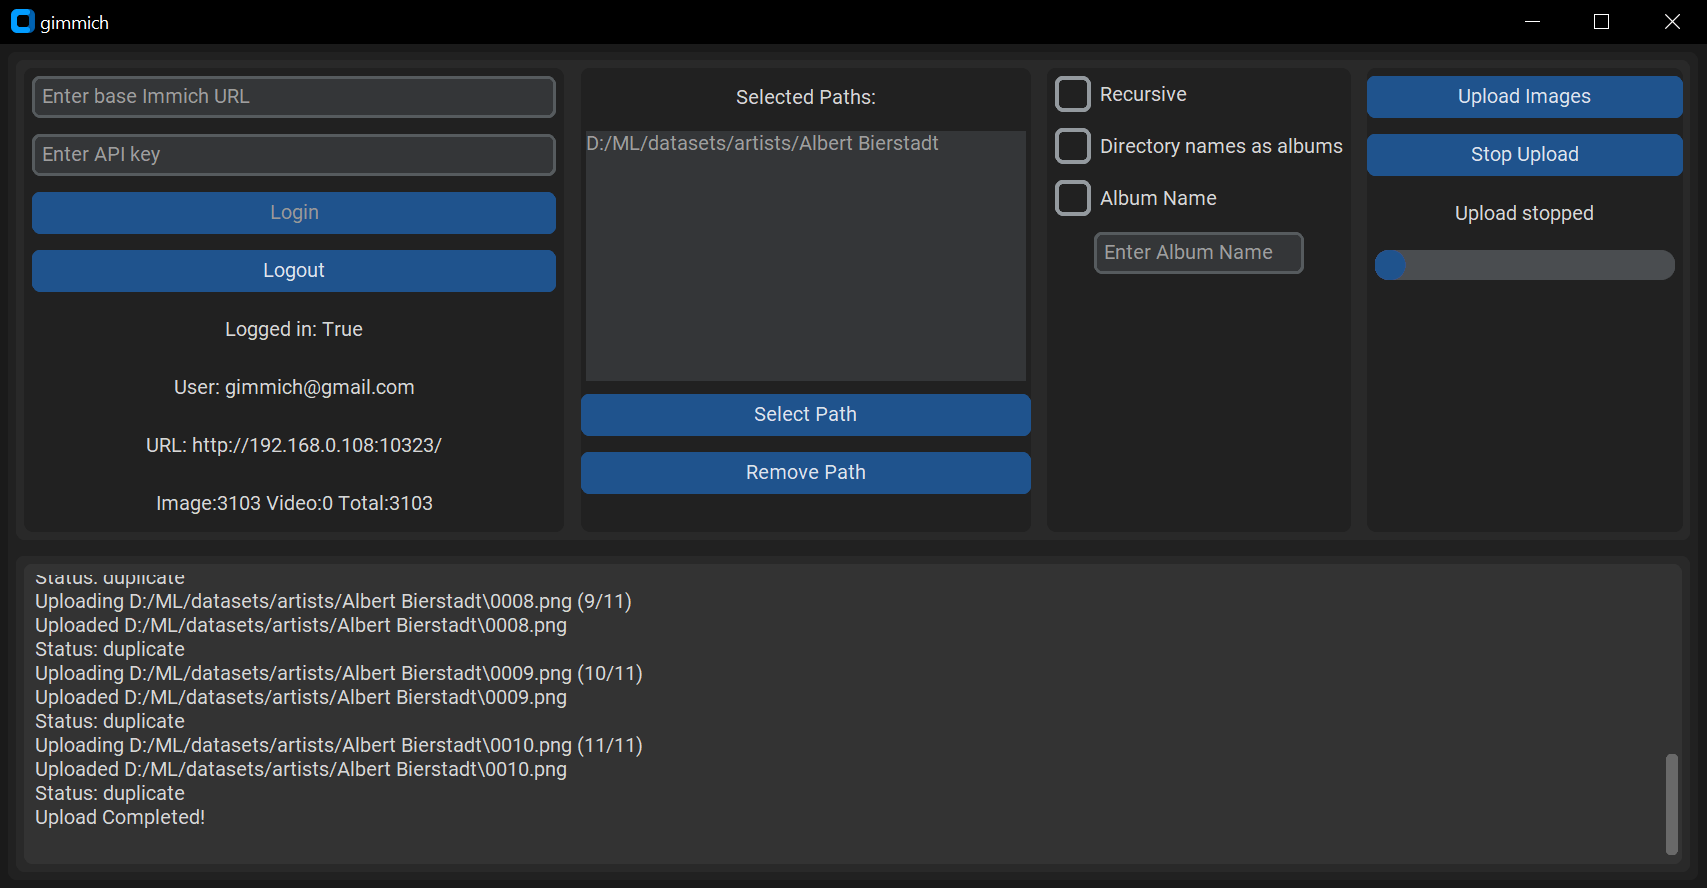
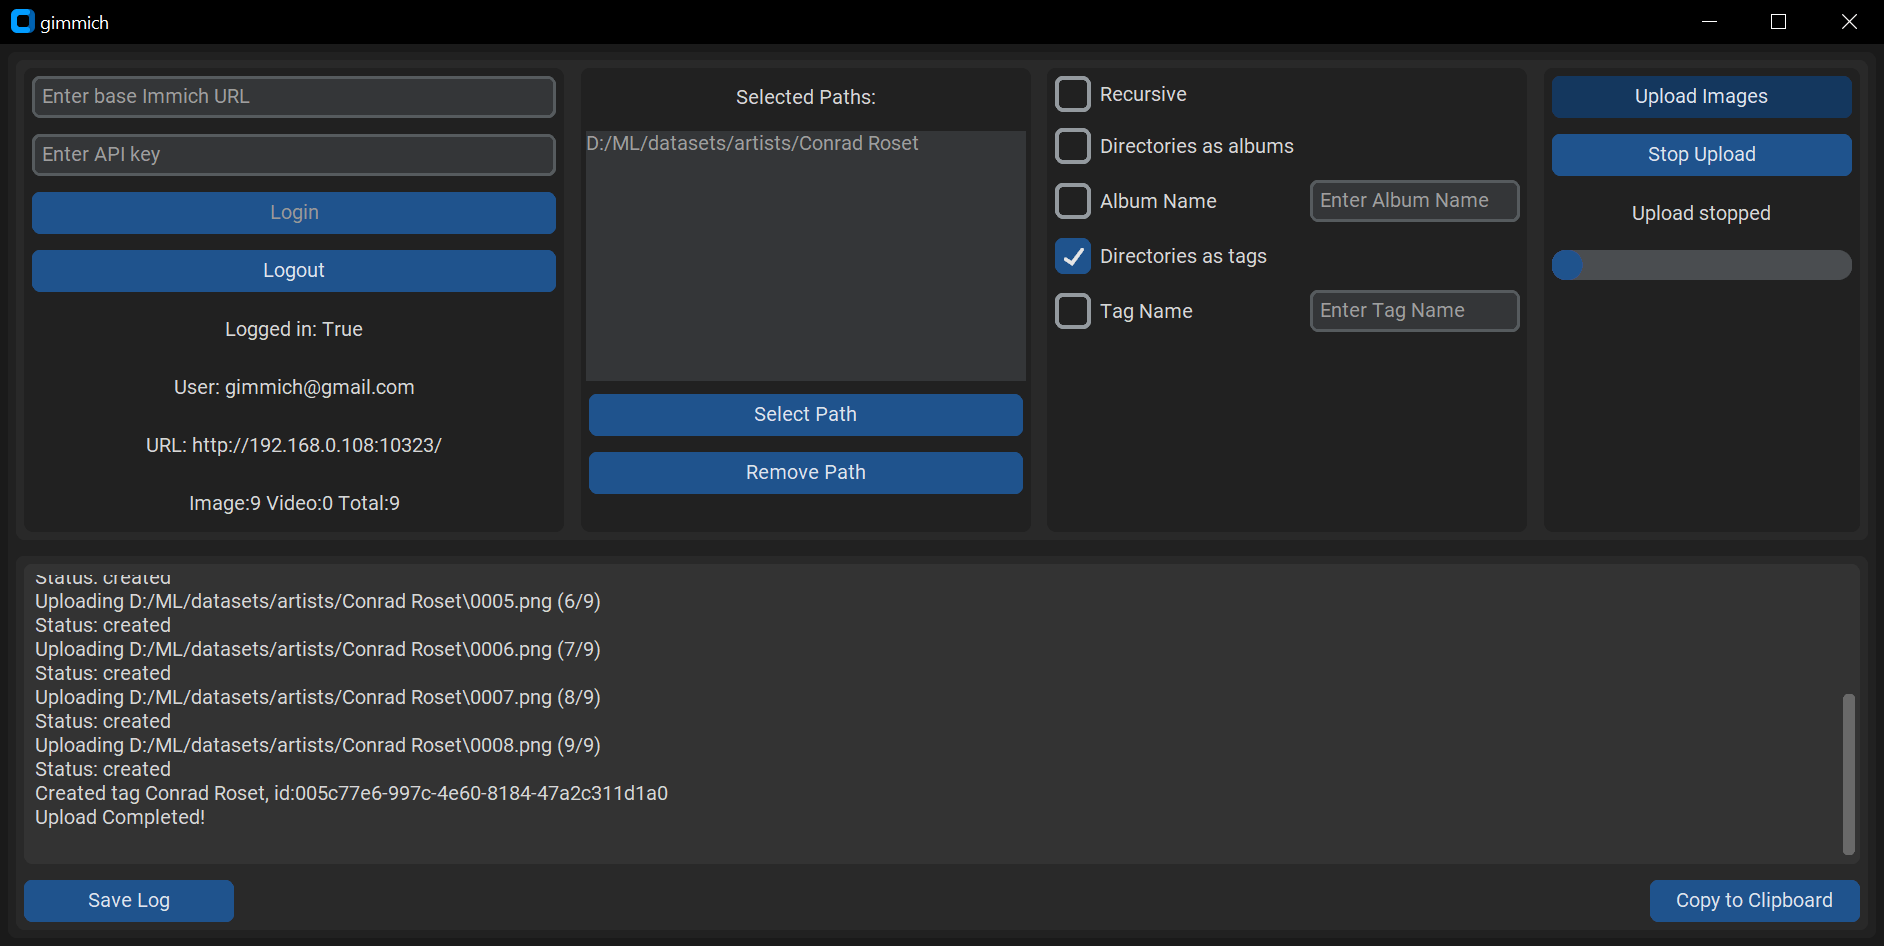
Added bulk tagging options

diff --git a/modules/upload_frame.py b/modules/upload_frame.py
@@ -68,6 +68,7 @@ class UploadFrame(ctk.CTkFrame):
 
             if collected_ids:
                 self.process_albums(collected_ids)
+                self.process_tags(collected_ids)
 
         except Exception as e:
             print(f"Unexpected error Uploading: {e}")
@@ -118,6 +119,36 @@ class UploadFrame(ctk.CTkFrame):
                     album_id = existing_albums[directory_name]
                     self.client.add_assets_to_album(album_id, all_asset_ids)
                     print(f"Album {directory_name} already exists, added assets to existing album: {album_id}")
+
+    def process_tags(self, ids):
+        """Create tags based on user options"""
+        checkbox_states = self.checkbox_frame.get_states()
+        existing_tags = self.client.get_all_tags()
+        all_asset_ids = [value for _, value in ids]
+        if checkbox_states['tag_input_enabled']:
+            if checkbox_states['tag_input'] not in existing_tags:
+                tag_id = self.client.create_tag(checkbox_states['tag_input'])
+                self.client.tag_assets(tag_id, all_asset_ids)
+                print(f"Created tag {checkbox_states['tag_input']}, id:{tag_id}")
+            else:
+                tag_id = existing_tags[checkbox_states['tag_input']]
+                self.client.tag_assets(tag_id, all_asset_ids)
+                print(f"Tag {checkbox_states['album_input']} already exists, added to existing tag: {tag_id}")
+        if checkbox_states['directory_names_as_tags']:
+            tags_by_directory = {}
+            for directory_name, asset_id in ids:
+                tags_by_directory.setdefault(directory_name, []).append(asset_id)
+
+            for directory_name, asset_ids in tags_by_directory.items():
+                #  Check if the tag exists and if not, create a tag for each directory
+                if directory_name not in existing_tags:
+                    tag_id = self.client.create_tag(directory_name)
+                    self.client.tag_assets(tag_id, all_asset_ids)
+                    print(f"Created tag {directory_name}, id:{tag_id}")
+                else:
+                    tag_id = existing_tags[directory_name]
+                    self.client.tag_assets(tag_id, all_asset_ids)
+                    print(f"Tag {directory_name} already exists, added assets to existing tag: {tag_id}")
 
     def stop_upload(self):
         """Signal to stop the upload process."""

diff --git a/modules/checkbox_frame.py b/modules/checkbox_frame.py
@@ -9,16 +9,24 @@ class CheckboxFrame(ctk.CTkFrame):
         self.recursive = ctk.BooleanVar(value=False)
         self.names_as_albums = ctk.BooleanVar(value=False)
         self.album_input_enabled = ctk.BooleanVar(value=False)
+        self.names_as_tags = ctk.BooleanVar(value=False)
+        self.tag_input_enabled = ctk.BooleanVar(value=False)
 
         # Checkboxes
         self.recursive = ctk.CTkCheckBox(self, text="Recursive", variable=self.recursive)
         self.recursive.grid(row=0, column=0, pady=5, padx=5, sticky="w")
-        self.names_as_albums = ctk.CTkCheckBox(self, text="Directory names as albums", variable=self.names_as_albums)
+        self.names_as_albums = ctk.CTkCheckBox(self, text="Directories as albums", variable=self.names_as_albums)
         self.names_as_albums.grid(row=1, column=0, pady=5, padx=5, sticky="w")
         self.album_input = ctk.CTkCheckBox(self, text="Album Name", variable=self.album_input_enabled)
         self.album_input.grid(row=2, column=0, pady=5, padx=5, sticky="w")
         self.album_input_entry = ctk.CTkEntry(self, placeholder_text="Enter Album Name")
-        self.album_input_entry.grid(row=3, column=0, pady=5, padx=5)
+        self.album_input_entry.grid(row=2, column=1, pady=5, padx=5, sticky="e")
+        self.names_as_tags = ctk.CTkCheckBox(self, text="Directories as tags", variable=self.names_as_tags)
+        self.names_as_tags.grid(row=3, column=0, padx=5, pady=5, sticky="w")
+        self.tag_input = ctk.CTkCheckBox(self, text="Tag Name", variable=self.tag_input_enabled)
+        self.tag_input.grid(row=4, column=0, pady=5, padx=5, sticky="w")
+        self.tag_input_entry = ctk.CTkEntry(self, placeholder_text="Enter Tag Name")
+        self.tag_input_entry.grid(row=4, column=1, pady=5, padx=5, sticky="e")
 
     def get_states(self):
         """Returns the states of all checkboxes as a dictionary."""
@@ -27,4 +35,7 @@ class CheckboxFrame(ctk.CTkFrame):
             "directory_names_as_albums": self.names_as_albums.get(),
             "album_input_enabled": self.album_input_enabled.get(),
             "album_input": self.album_input_entry.get(),
+            "directory_names_as_tags": self.names_as_tags.get(),
+            "tag_input_enabled": self.tag_input_enabled.get(),
+            "tag_input": self.tag_input_entry.get()
         }

diff --git a/modules/api_client.py b/modules/api_client.py
@@ -4,6 +4,7 @@ import uuid
 import hashlib
 import os
 import json
+import time
 from datetime import datetime
 import keyring
 
@@ -112,6 +113,25 @@ class ImmichClient:
         except Exception as e:
             print(f"Error accessing getAllAlbums API: {e}")
 
+    def get_all_tags(self):
+        """Returns a list of all tag names and associated ids"""
+        url = f"{self.base_url}/api/tags"
+        payload = {}
+        headers = {
+            'Accept': 'application/json',
+            'x-api-key': self.token
+        }
+        try:
+            response = requests.request("GET", url, headers=headers, data=payload)
+            if response.status_code == 200:
+                tags = response.json()
+                tag_dict = {tag['name']: tag['id'] for tag in tags}
+                return tag_dict
+            else:
+                print("Error getting tag list")
+        except Exception as e:
+            print(f"Error accessing getAllTags API: {e}")
+
     def create_album(self, album_name):
         """Creates an album"""
         url = f"{self.base_url}/api/albums"
@@ -135,11 +155,29 @@ class ImmichClient:
         except Exception as e:
             print(f"Error accessing createAlbum API: {e}")
 
+    def add_assets_to_album(self, album_id, asset_ids):
+        """Takes an album id and a list of asset ids then adds them to the album"""
+        url = f"{self.base_url}/api/albums/{album_id}/assets"
+        payload = json.dumps({
+            'ids': asset_ids
+        })
+        headers = {
+            'Content-Type': 'application/json',
+            'Accept': 'application/json',
+            'x-api-key': self.token
+        }
+        try:
+            response = requests.request("PUT", url, headers=headers, data=payload)
+            if response.status_code != 200:
+                print(f"Error adding assets to album {album_id}")
+        except Exception as e:
+            print(f"Error accessing addAssetsToAlbum API: {e}")
+
     def create_tag(self, tag_name):
         """Creates an album"""
         url = f"{self.base_url}/api/tags"
         payload = json.dumps({
-            'Name': tag_name,
+            'name': tag_name,
         })
         headers = {
             'Content-Type': 'application/json',

diff --git a/README.md b/README.md
@@ -23,5 +23,5 @@ Run `python gimmich.py`
 
 ## TODO
 
-Add bulk tagging options for uploads
+Add option to import captions as descriptions
 Add bulk downloading tab with various criteria to bulk download assets
